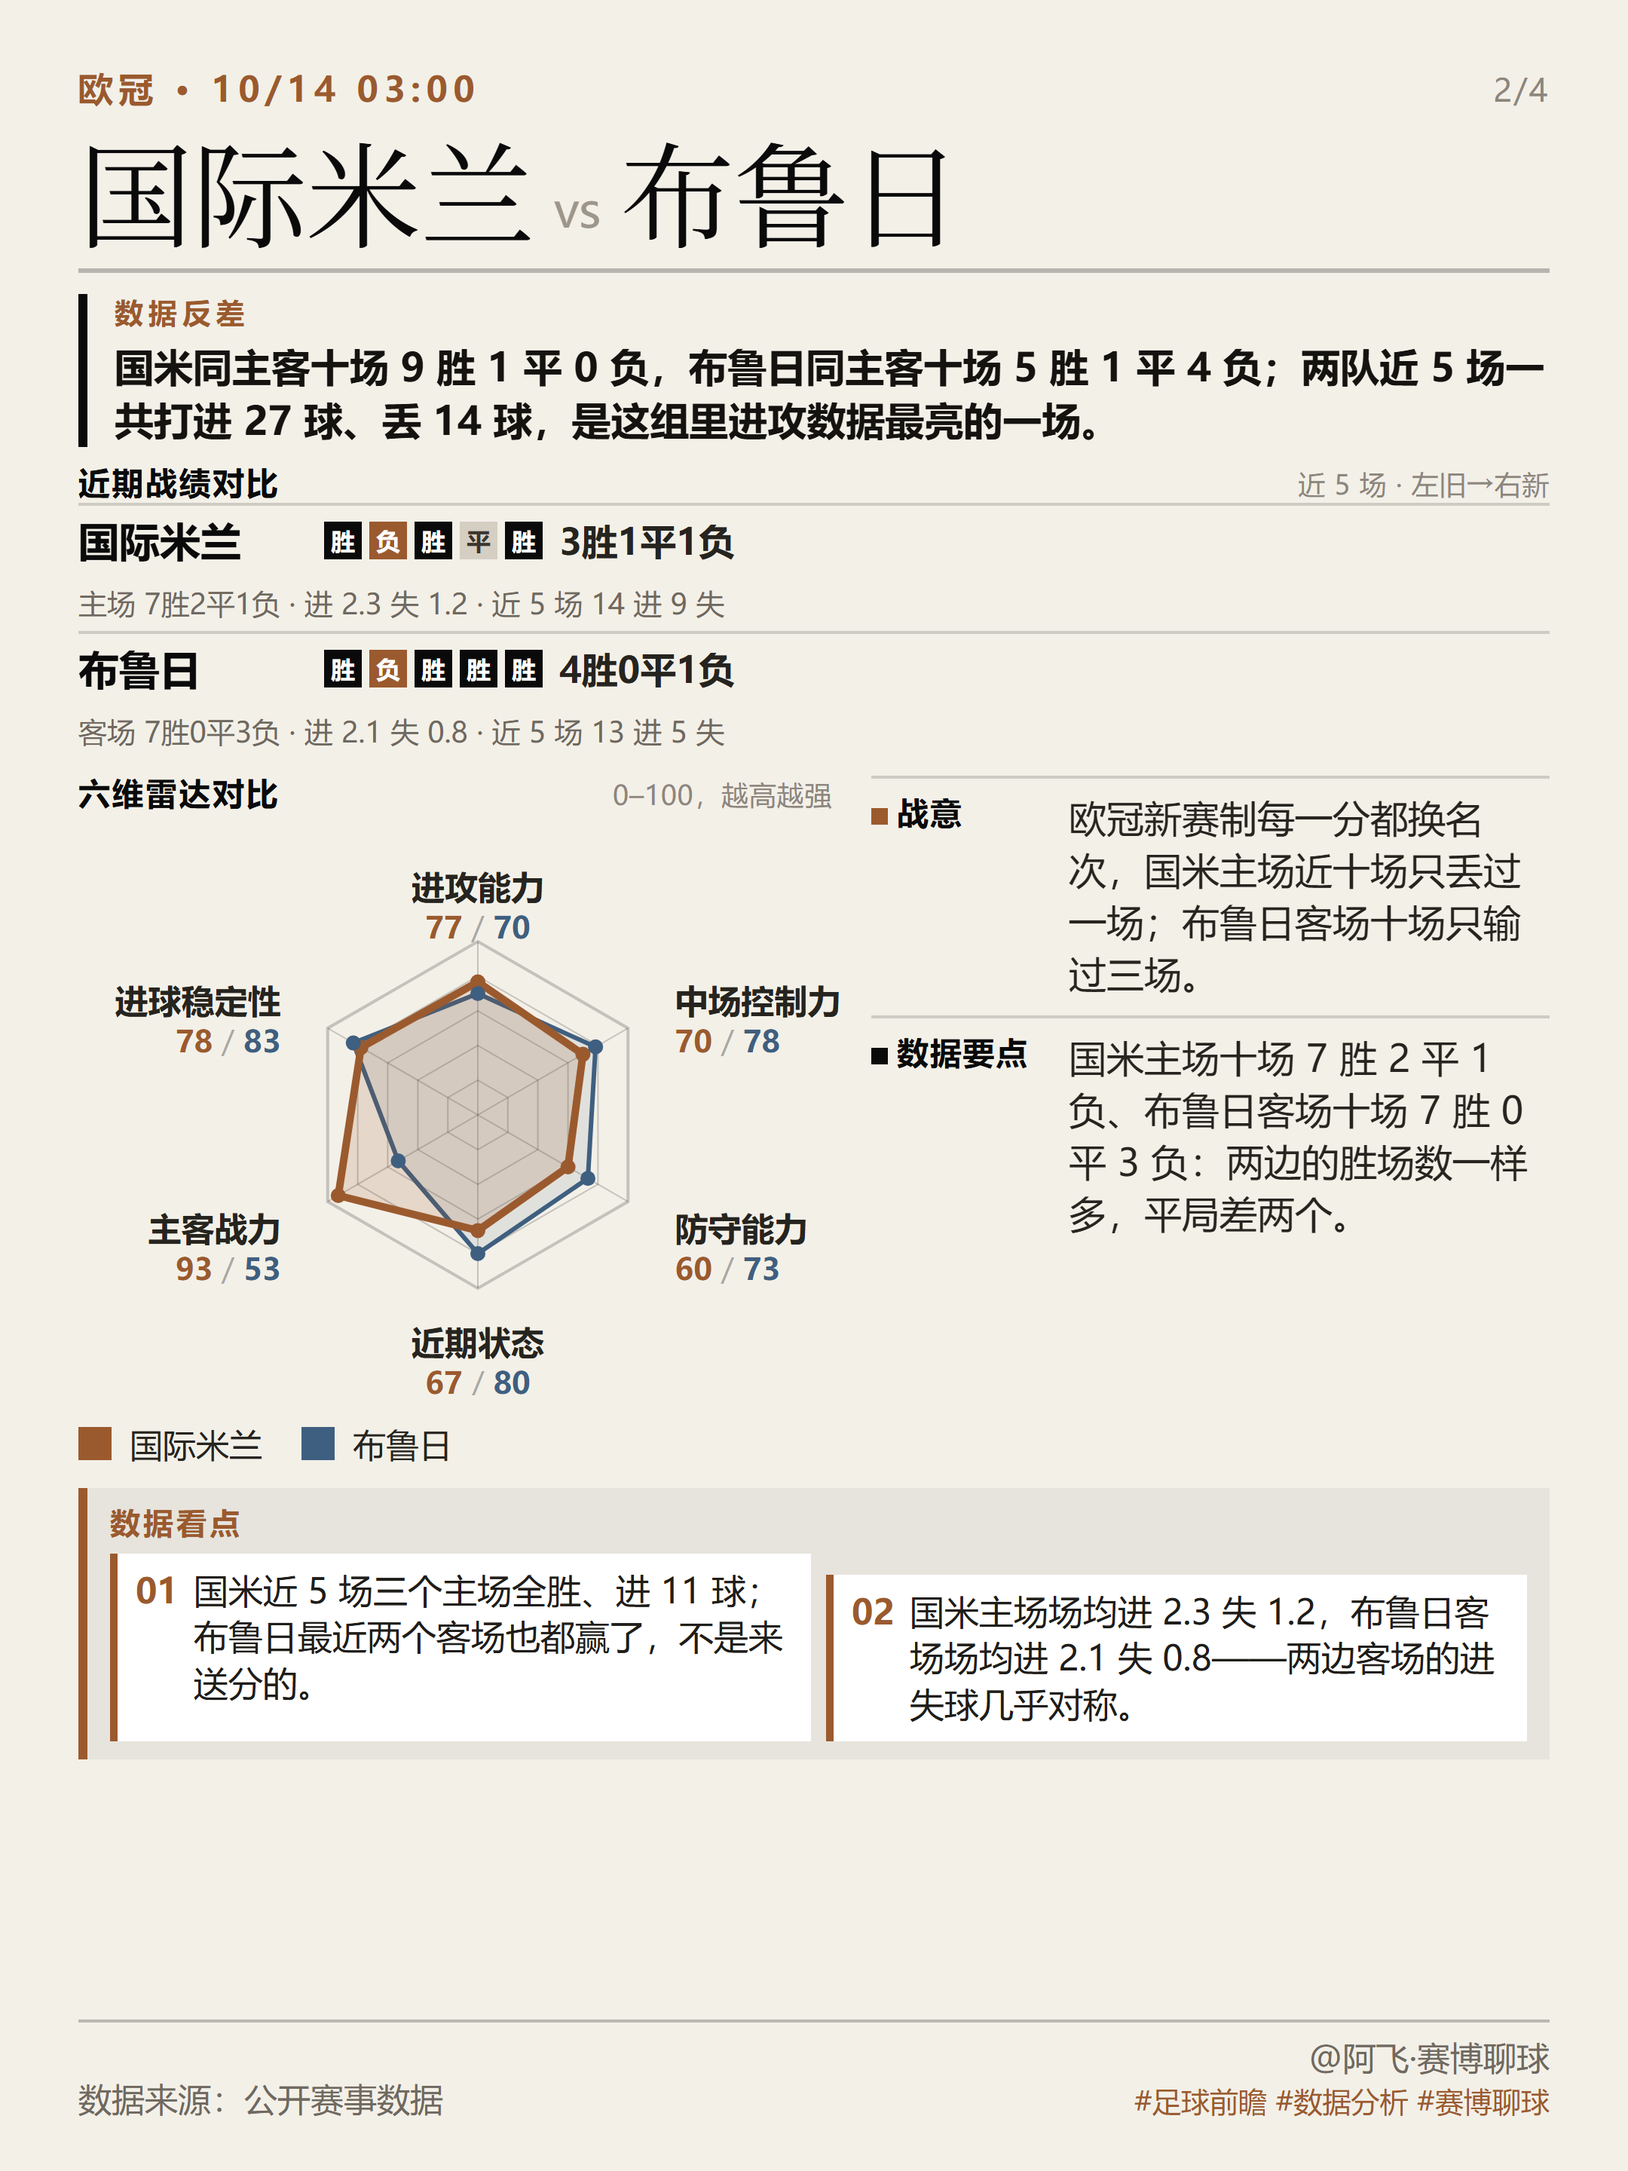
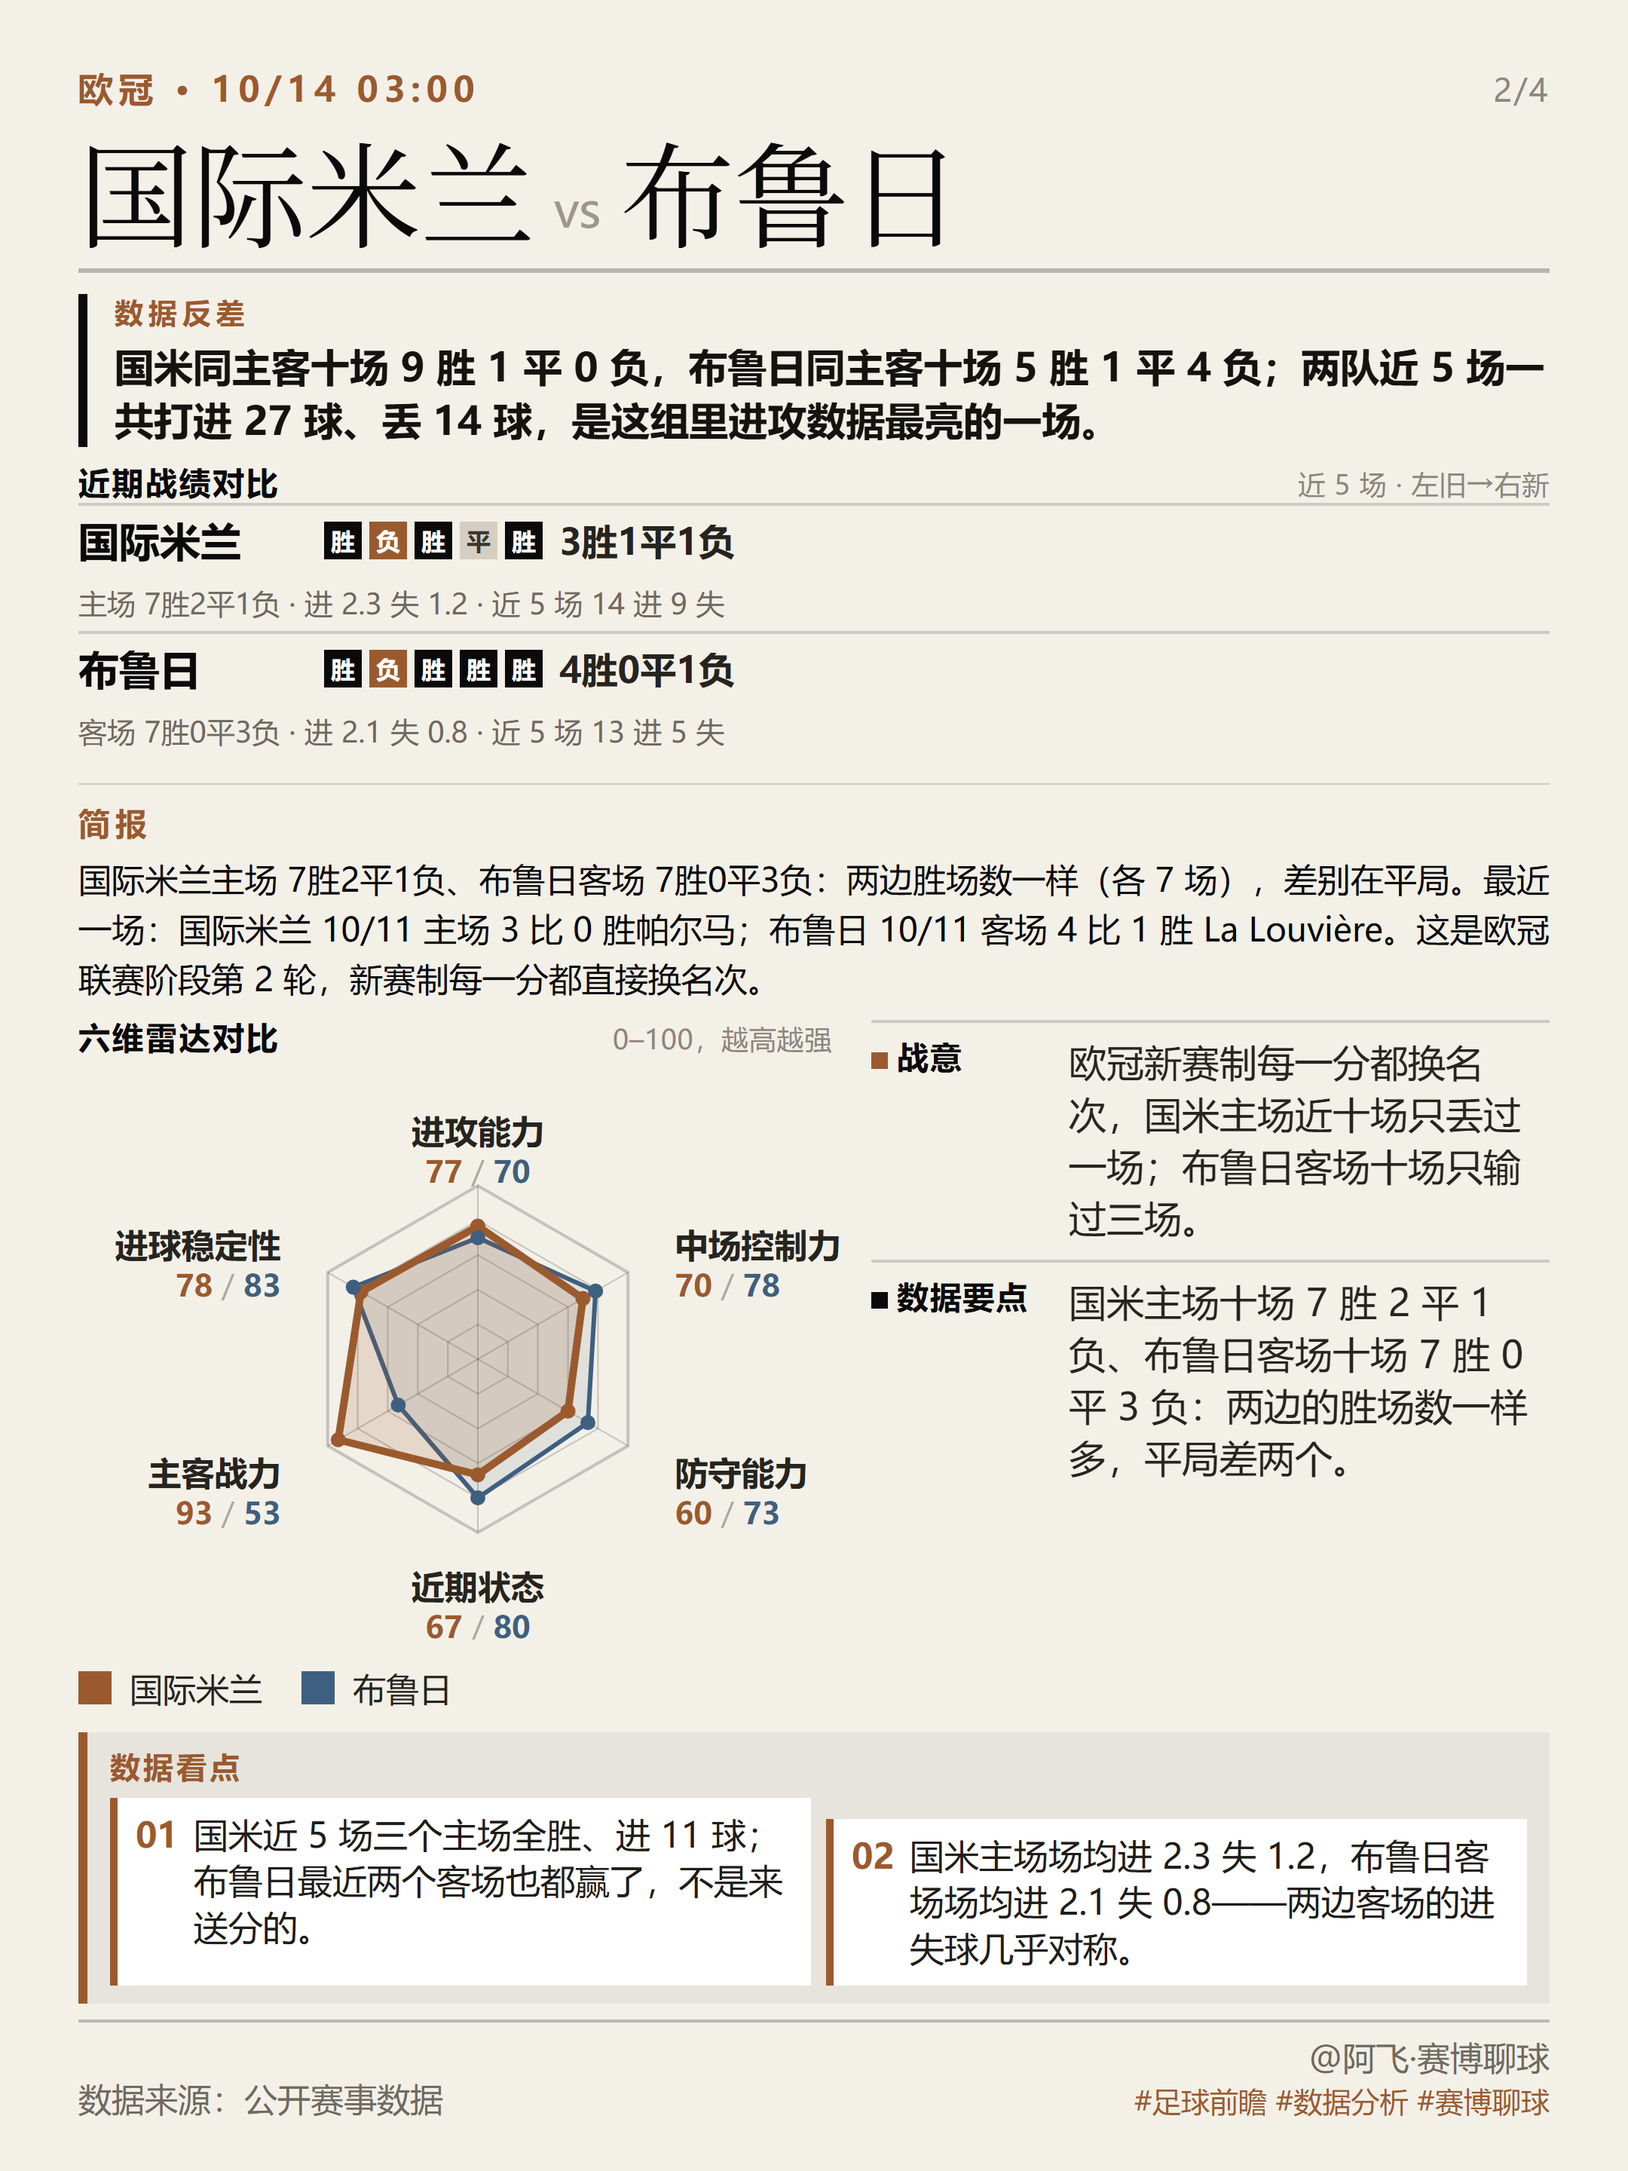
信息卡加 100-200 字简报：自动拼装 + 过风控门禁 + 历史比分写「X 比 Y」
- scripts/xhs_data.py：新增 _md / last_match_text / injury_note / brief_of，build_one 返回值加 brief，enrich 打印「简报 N 字」
  · 简报＝主客场地战绩对照（含一句反差）→ 最近一场（对手+比分）→ 交锋 → 伤停 → 赛程轮次，100-200 字，超长从后往前丢句
  · 历史比分写「X 比 Y」不写 0:1（门禁「比分串」规则只拦 \d[-:]\d）
  · 修关键词坑：feature.json 的平局键是 homeDrawMatchCnt / awayDrawMatchCnt（无 Goal 后缀），写错会静默取 0
- scripts/xhs_html.py：新增 brief_html() + DATA_CSS 的 .card.data .brief（细发丝线+赭石小标签），插在战绩之后、雷达行之前
- scripts/xhs_riskcheck.py：brief 纳入扫描字段
- 第二批 4 张重渲（简报 138/147/128 字；内容底 1406/1419/1406，页脚未裁）
- 写作指南：数据向表加「简报」行、字段表加 matches[].brief、坑表加 3 条

diff --git a/scripts/xhs_data.py b/scripts/xhs_data.py
@@ -148,8 +148,83 @@ def h2h_counts(hist: dict, home_name: str, away_name: str):
     return hw, dr, aw
 
 
+def _md(date) -> str:
+    d = str(date or "")
+    return d[5:].replace("-", "/") if len(d) >= 10 else d
+
+
+def last_match_text(res_side: dict) -> str:
+    """最近一场，例：'10/11 客场 0 比 1 负于皇马'。
+
+    ⚠ 比分一律写「X 比 Y」，**不写 `0:1` / `0-1`**：风控门禁 `scripts/xhs_riskcheck.py` 的
+    「比分串」规则只拦 `\\d[-:]\\d` 这种形状（那是博彩比分串的样子），「X 比 Y」是中文赛果写法。
+    """
+    ml = res_side.get("matchList") or []
+    if not ml:
+        return ""
+    m = ml[0]
+    tid = (res_side.get("statistics") or {}).get("teamId")
+    home = m.get("homeTeamId") == tid
+    gh, ga = int(num(m.get("homeTeamFullCourtGoalCnt"))), int(num(m.get("awayTeamFullCourtGoalCnt")))
+    gf, gl = (gh, ga) if home else (ga, gh)
+    opp = (m.get("awayTeamShortName") if home else m.get("homeTeamShortName")) or "对手"
+    opp = str(opp).strip()
+    sp = " " if opp[:1].isascii() and opp[:1].isalpha() else ""   # 拉丁队名前后留空格
+    tail = ("胜" + sp + opp) if gf > gl else (("平" + sp + opp) if gf == gl else ("负于" + sp + opp))
+    return "%s %s %d 比 %d %s" % (_md(m.get("matchDate")), "主场" if home else "客场", gf, gl, tail)
+
+
+def injury_note(inj: dict, side: str) -> int:
+    v = (inj.get("value") or {}).get(side) or {}
+    return len(v.get("injuriesAndSuspensionsList") or [])
+
+
+def brief_of(card: dict, form: dict, res_home: dict, res_away: dict, inj: dict, head_: dict,
+             eh: dict) -> str:
+    """100–200 字「简报」：主客场地战绩对照 + 最近一场 + 交锋 + 伤停 + 赛程处境。
+
+    只用本地竞彩缓存里有的东西（`result.matchList` 带对手与比分、`history` 带交锋、
+    `injury` 带伤停、`head.gameweek` 带轮次）；缓存里没有的（战术风格、边路/直塞这类打法描述）
+    一律不编——要写战术得另找带指标的源。
+    """
+    hf, af = form.get("home") or {}, form.get("away") or {}
+    hn, an = card.get("home") or "主队", card.get("away") or "客队"
+    hw, hd, hl = (int(num(eh.get("homeWinGoalMatchCnt"))), int(num(eh.get("homeDrawMatchCnt"))),
+                  int(num(eh.get("homeLossGoalMatchCnt"))))
+    aw_, ad, al = (int(num(eh.get("awayWinGoalMatchCnt"))), int(num(eh.get("awayDrawMatchCnt"))),
+                   int(num(eh.get("awayLossGoalMatchCnt"))))
+    if hw == aw_:
+        clause = "两边胜场数一样（各 %d 场），差别在平局" % hw
+    elif hw > aw_:
+        clause = "主队在自家场地多赢 %d 场" % (hw - aw_)
+    else:
+        clause = "客队在这个客场赢的场次反而多 %d 场" % (aw_ - hw)
+    parts = []
+    parts.append("%s主场 %d胜%d平%d负、%s客场 %d胜%d平%d负：%s。" % (
+        hn, hw, hd, hl, an, aw_, ad, al, clause))
+    lm_h, lm_a = last_match_text(res_home), last_match_text(res_away)
+    if lm_h or lm_a:
+        parts.append("最近一场：%s；%s。" % (
+            "%s %s" % (hn, lm_h) if lm_h else "", "%s %s" % (an, lm_a) if lm_a else ""))
+    if form.get("h2h_short"):
+        parts.append("两队%s。" % form["h2h_short"])
+    nh, na = injury_note(inj, "home"), injury_note(inj, "away")
+    if nh or na:
+        parts.append("伤停名单：%s %d 人、%s %d 人。" % (hn, nh, an, na))
+    hv = head_.get("value") if isinstance(head_.get("value"), dict) else head_
+    gw = (hv or {}).get("gameweek")   # head.json 是平铺字段，injury/result 是 {value:{…}}，两种都兜
+    if gw:
+        parts.append("这是欧冠联赛阶段第 %s 轮，新赛制每一分都直接换名次。" % gw)
+    txt = "".join(parts)
+    # 超 200 字就从后往前丢（先丢赛程处境，再丢伤停/交锋），保证 100–200 字
+    while len(txt) > 200 and len(parts) > 2:
+        parts.pop()
+        txt = "".join(parts)
+    return txt
+
+
 def build_one(card: dict, root: Path) -> dict:
-    """算出一场的 form + radar；缺缓存的场次抛错，由调用方决定跳过还是中断。"""
+    """算出一场的 form + radar + 简报；缺缓存的场次抛错，由调用方决定跳过还是中断。"""
     mid = card.get("sporttery_match_id") or card.get("matchId")
     if not mid:
         raise ValueError("缺 sporttery_match_id")
@@ -157,6 +232,7 @@ def build_one(card: dict, root: Path) -> dict:
     if not d.exists():
         raise FileNotFoundError(f"没有本地缓存 {d}（先跑 python scripts/sporttery_fetch.py match {mid}）")
     feat, res, hist = val(d, "feature"), val(d, "result"), val(d, "history")
+    inj, head_ = val(d, "injury"), val(d, "head")
     eh, es = feat.get("eachHomeAway") or {}, feat.get("eachSameHomeAway") or {}
     ga, lg = feat.get("goalAvg") or {}, feat.get("lossGoalAvg") or {}
     hm, aw = res.get("home") or {}, res.get("away") or {}
@@ -197,7 +273,8 @@ def build_one(card: dict, root: Path) -> dict:
     form = {"home": hf, "away": af, "h2h": h2h_txt, "h2h_n": n_h2h,
             "h2h_short": ("近 %d 次交锋 %d胜%d平%d负" % (n_h2h, hw, dr, aw_)) if n_h2h else "",
             "h2h_used": bool(use_h2h), "window": "近 5 场 / 同主客 10 场"}
-    return {"form": form, "radar": radar, "match_dir": f"state/_match_{mid}"}
+    brief = brief_of(card, form, hm, aw, inj, head_, eh)
+    return {"form": form, "radar": radar, "match_dir": f"state/_match_{mid}", "brief": brief}
 
 
 def enrich(cards_path: Path, force=False, dry=False) -> int:
@@ -206,8 +283,8 @@ def enrich(cards_path: Path, force=False, dry=False) -> int:
     ok = 0
     for i, c in enumerate(cards, 1):
         tag = "%s %s vs %s" % (c.get("no", ""), c.get("home", ""), c.get("away", ""))
-        if c.get("form") and c.get("radar") and not force:
-            print("  –  跳过（已有 form/radar）：" + tag)
+        if c.get("form") and c.get("radar") and c.get("brief") and not force:
+            print("  –  跳过（已有 form/radar/brief）：" + tag)
             ok += 1
             continue
         try:
@@ -217,8 +294,8 @@ def enrich(cards_path: Path, force=False, dry=False) -> int:
             continue
         c.update(got)
         r = got["radar"]
-        print("  ✅ %s  form 已补  radar[%s]  主 %s  客 %s" %
-              (tag, "/".join(r["dims"]), r["home"], r["away"]))
+        print("  ✅ %s  form 已补  简报 %d 字  radar[%s]  主 %s  客 %s" %
+              (tag, len(got.get("brief") or ""), "/".join(r["dims"]), r["home"], r["away"]))
         ok += 1
     if dry:
         print("（--dry：没有写回文件）")

diff --git a/scripts/xhs_html.py b/scripts/xhs_html.py
@@ -403,6 +403,14 @@ DATA_CSS = """
 .ed.data .focus li{font-size:23px}
 .ed.data .radar .lg{font-size:22px}
 .ed.data .foot{font-size:22px}
+/* 简报（100–200 字）：细发丝线 + 小标签，不复用「左粗条」以免和数据反差撞脸 */
+.card.data .brief{margin-top:16px;padding-top:12px;border-top:1px solid rgba(10,10,11,.16)}
+.card.data .brief .lab{font-size:21px;font-weight:700;letter-spacing:.16em}
+.card.data .brief p{margin:7px 0 0;font-size:22px;line-height:1.5;text-align:justify}
+.ed.data .brief .lab{color:#9b5a2e}
+.sw.data .brief{border-top-width:3px;border-top-color:#0a0a0b}
+.sw.data .brief .lab{color:#e8402a}
+.sw.data .brief p{font-size:21px}
 .sw.data h1{font-size:76px}
 .sw.data .frow .tn{font-size:27px}
 .sw.data .frow .num{font-size:23px}
@@ -590,6 +598,14 @@ def focus_html(card: dict, label: str = "本次看点") -> str:
     return '<section class="focus"><div class="lab">%s</div><ul>%s</ul></section>' % (esc(label), items)
 
 
+def brief_html(card: dict, label: str = "简报") -> str:
+    """100–200 字简报（`xhs_data.py` 从本地赛果缓存生成，可手写覆盖 cards.json 的 `brief`）。"""
+    txt = (card.get("brief") or "").strip()
+    if not txt:
+        return ""
+    return '<div class="brief"><div class="lab">%s</div><p>%s</p></div>' % (esc(label), esc(txt))
+
+
 def form_html(card: dict, compact: bool = False) -> str:
     f = card.get("form") or {}
     h, a = f.get("home") or {}, f.get("away") or {}
@@ -697,12 +713,13 @@ def data_card_html(card: dict, meta: dict, style: str, idx: int, total: int, var
     head = '<h1 class="serif">%s</h1>' % vs if style == "editorial" else '<h1>%s</h1>' % vs
     cq = contradiction_html(card, key="contrast", label="数据反差")
     fm = form_html(card, compact=True)
+    bf = brief_html(card)
     rz = radar_html(card, cluster, 230, 22)
     nt = notes_html(card, cluster, ("战意", "数据要点"))
     fc = focus_html(card, "数据看点")
     row = ('<div class="row2 tail2"><div class="c1">%s</div><div class="c2">%s</div></div>'
            % (rz, nt)) if (rz and nt) else (rz + nt)
-    body = sep + cq + fm + ((fc + row) if variant % 2 else (row + fc))
+    body = sep + cq + fm + bf + ((fc + row) if variant % 2 else (row + fc))
     return f"""<!doctype html><html lang="zh-CN"><head><meta charset="utf-8">
 <style>{BASE_CSS}{css}{EXTRA_CSS}{ALL_CSS}{DATA_CSS}</style></head><body>
 <div id="fit"><div class="card {cluster} all data">

diff --git a/scripts/xhs_riskcheck.py b/scripts/xhs_riskcheck.py
@@ -71,7 +71,7 @@ def scan_cards(data: dict, cards=None) -> list:
     for c in cards:
         tag = "%s %s vs %s" % (c.get("no") or "?", c.get("home") or "?", c.get("away") or "?")
         for key in ("stance", "stance_label", "contrast", "contradiction", "will",
-                    "signal", "note"):
+                    "signal", "note", "brief"):
             if c.get(key):
                 hits += scan_text(c[key], "%s.%s" % (tag, key))
         for i, t in enumerate(c.get("focus") or [], 1):

diff --git a/docs/日记/2026-10-12.md b/docs/日记/2026-10-12.md
@@ -1,8 +1,9 @@
 # 2026-10-12 工作日记
 
 <!-- AUTO:BEGIN｜由 scripts/journal.py 生成，勿手改此区块 -->
-## 📌 当日提交（21 条）
+## 📌 当日提交（22 条）
 
+- `035d985` 小红书卡片改纯数据向：六维去市场化 + --kind data 为默认 + 出图前风控门禁
 - `834a98f` 小红书首篇被判「财产安全风险/赌博」：风控节 + 坑#69/#70 + 三处文档警示（暂停发布）
 - `517aad7` 小红书账号简介：五版 <=50 字 + 三条红线 + 同名/隔离取舍（含词表自检）
 - `0d8647c` 进度同步 20261012：HANDOFF 夜·八（第二批三场单卡+全流程案例文档）+ 日记
@@ -32,6 +33,14 @@
 - `docs\RULES.md`
 - `docs\日记\2026-10-12.md`
 
+### scripts（6 个文件）
+- `scripts\odds_snapshot.py`
+- `scripts\xhs_cards.py`
+- `scripts\xhs_data.py`
+- `scripts\xhs_html.py`
+- `scripts\xhs_measure.py`
+- `scripts\xhs_riskcheck.py`
+
 ### 📚知识库（12 个文件）
 - `📚知识库\skills\INDEX.md`
 - `📚知识库\skills\afei-writing-standards\SKILL.md`
@@ -45,14 +54,6 @@
 - `📚知识库\比赛分析\巴甲\20261013_周一009_科里蒂巴vs博塔弗戈_全维度分析.md`
 - `📚知识库\比赛分析\挪超\20261013_周一004_奥斯KFUMvs瓦勒伦加_全维度分析.md`
 - `📚知识库\比赛分析\西甲\20261013_周一008_莱万特vs塞维利亚_全维度分析.md`
-
-### scripts（6 个文件）
-- `scripts\odds_snapshot.py`
-- `scripts\xhs_cards.py`
-- `scripts\xhs_data.py`
-- `scripts\xhs_html.py`
-- `scripts\xhs_measure.py`
-- `scripts\xhs_riskcheck.py`
 
 ### 📝文章（24 个文件）
 - `📝文章\20261013\周一004+008+009_三个客场热门我只认一个_赛事前瞻.md`
@@ -87,7 +88,7 @@
 
 ## 🔗 交接指针
 
-- 最新交接节：## 2026-10-12（夜·十一）｜ 会话:「未通过…」＝ 小红书首篇判罚 → 卡片改成纯数据向
+- 最新交接节：## 2026-10-12（夜·十二）｜ 会话:「在信息卡里加一个简报100-200字」
 
 <!-- AUTO:END -->
 
